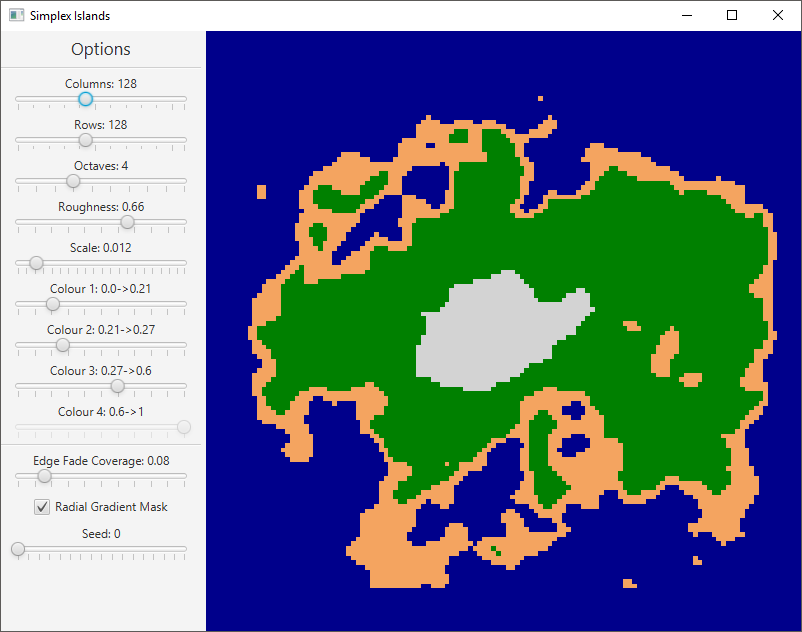
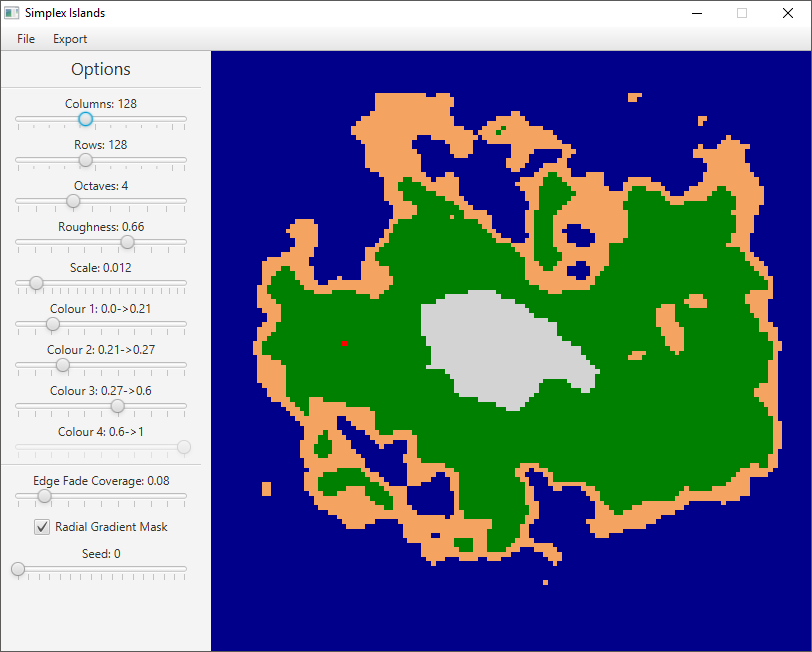
flipped array vertically, updated screenshot & readme

diff --git a/src/SimplexIslands/Controller.java b/src/SimplexIslands/Controller.java
@@ -242,6 +242,20 @@ public class Controller {
         normalizeArray();
         if (radialEnabled) createRadialMask();
         createEdgeMask();
+        flipVertically();
+    }
+
+    private void flipVertically() {
+
+        float[][] tempMap = new float[mapColumns][mapRows];
+
+        for (int x = 0; x<mapColumns; x++) {
+            for (int y = 0; y<mapRows; y++) {
+                tempMap[x][y] = map[x][mapRows-y-1];
+            }
+        }
+
+        map = tempMap;
     }
 
     private void SetColourLabels() {
@@ -299,7 +313,7 @@ public class Controller {
 
         // draw start position
         gc.setFill(Color.RED);
-        gc.fillRect( roundDown(startX * pixelW, 0), roundDown(startY * pixelH, 0), roundUp(pixelW,0), roundUp(pixelH,0) );
+        gc.fillRect( roundDown(startX * pixelW, 0), roundDown((mapRows - startY) * pixelH, 0), roundUp(pixelW,0), roundUp(pixelH,0) );
 
     }
 
@@ -461,7 +475,7 @@ public class Controller {
         float pixelH = (float)canvasH/mapRows;
 
         int tempStartX = (int)(event.getX() / pixelW);
-        int tempStartY = (int)(event.getY() / pixelH);
+        int tempStartY = mapRows - (int)(event.getY() / pixelH);
 
         if ( map[tempStartX][tempStartY] > colour1Limit) {
             startX = tempStartX;

diff --git a/README.md b/README.md
@@ -9,7 +9,7 @@ Access the .jar [here](https://raw.githubusercontent.com/dunctait/Simplex-Island
 
 This small program was originally written to give a better understanding of how the various settings affect the output from the Simplex Noise function. See [here](http://staffwww.itn.liu.se/~stegu/simplexnoise/simplexnoise.pdf) for the origin of the Simplex code.
 
-I am now using the program to create random potential levels for a project I am working on so it is now leaning toward being designed for my specific use case.
+I am now using the program to create random potential levels for a project I am working on so it is now leaning toward being designed for my specific use case. For example, clicking on the map changes the start location of the character in my project and Export > Copy String to Clipboard is a shortcut for when I'm designing levels for the game.
 
 # Settings
 
